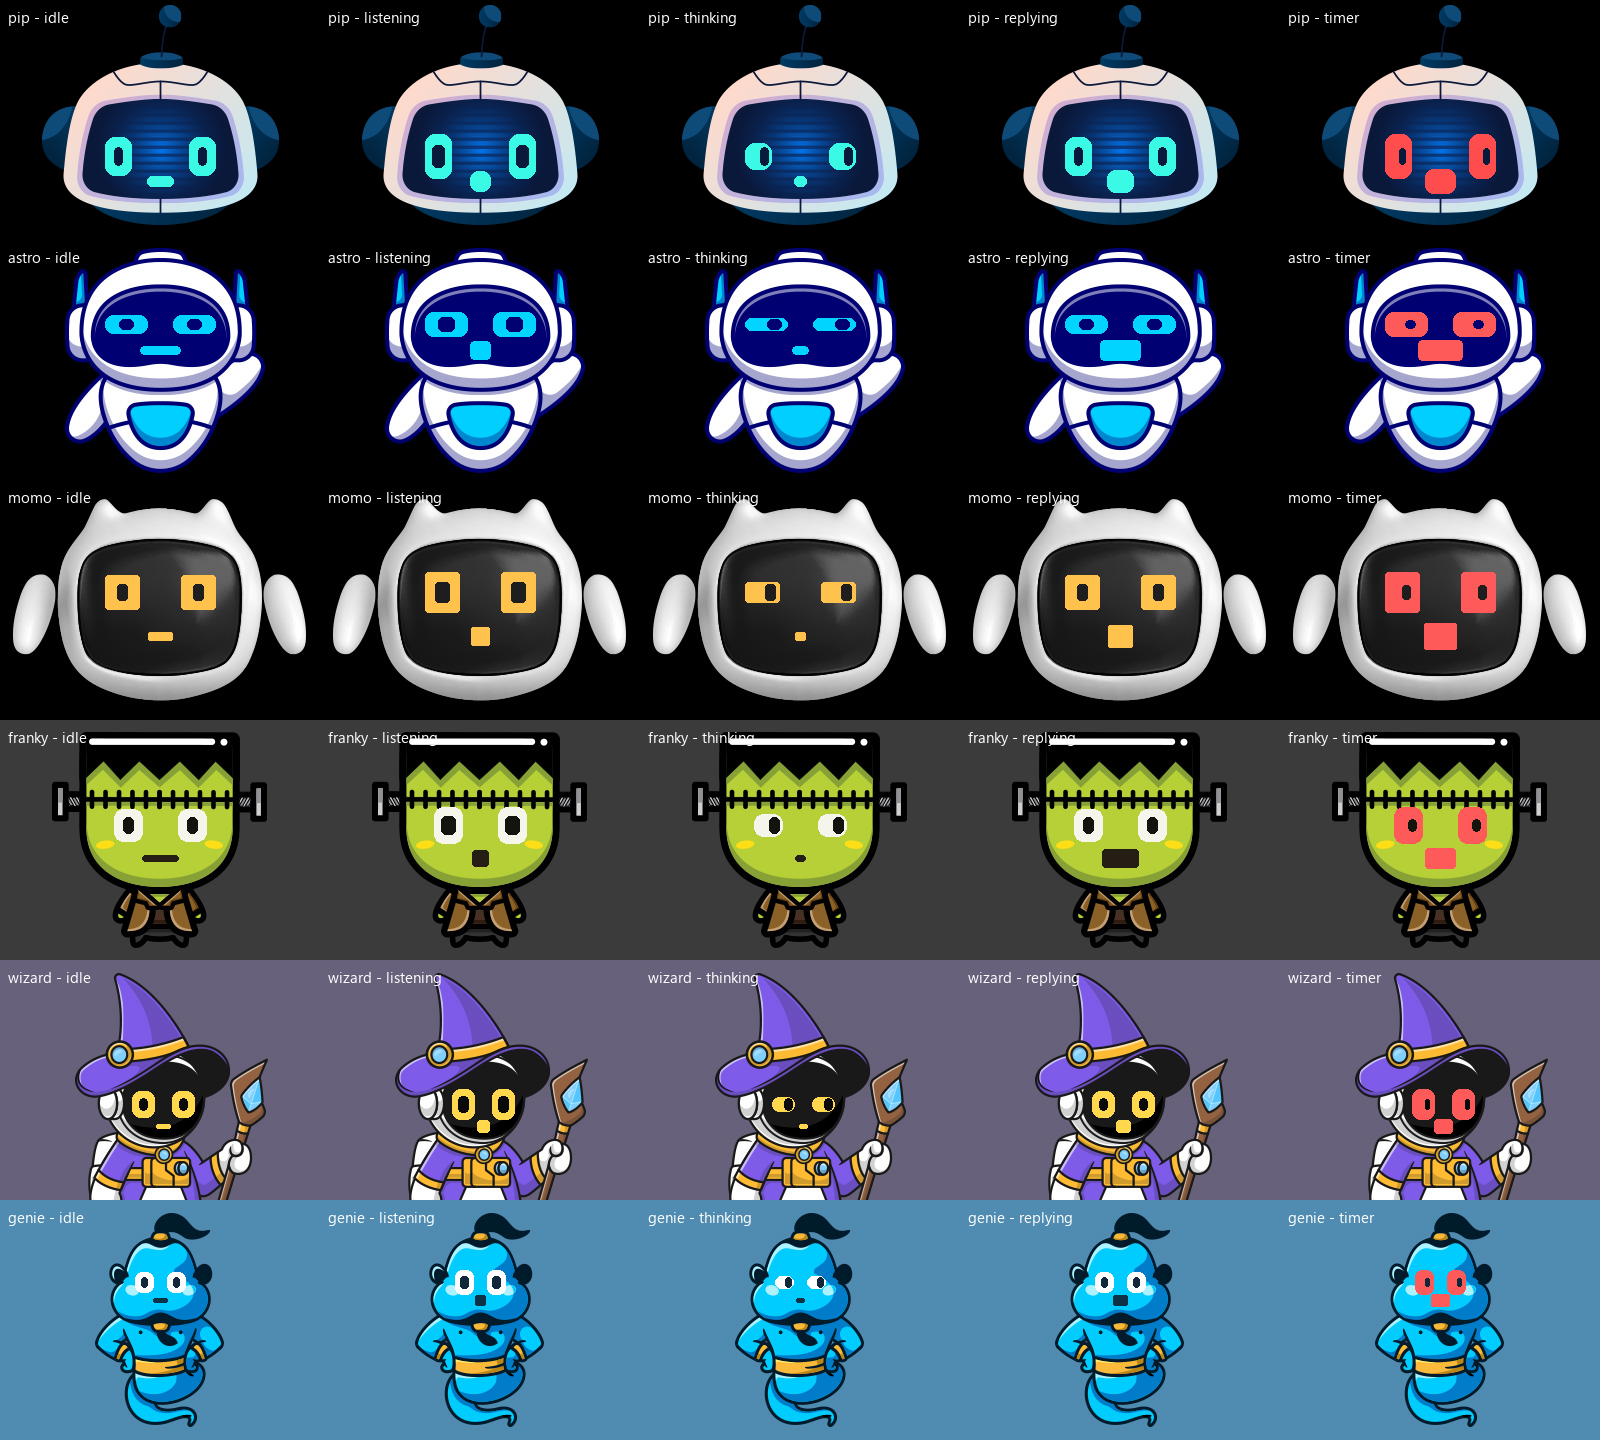
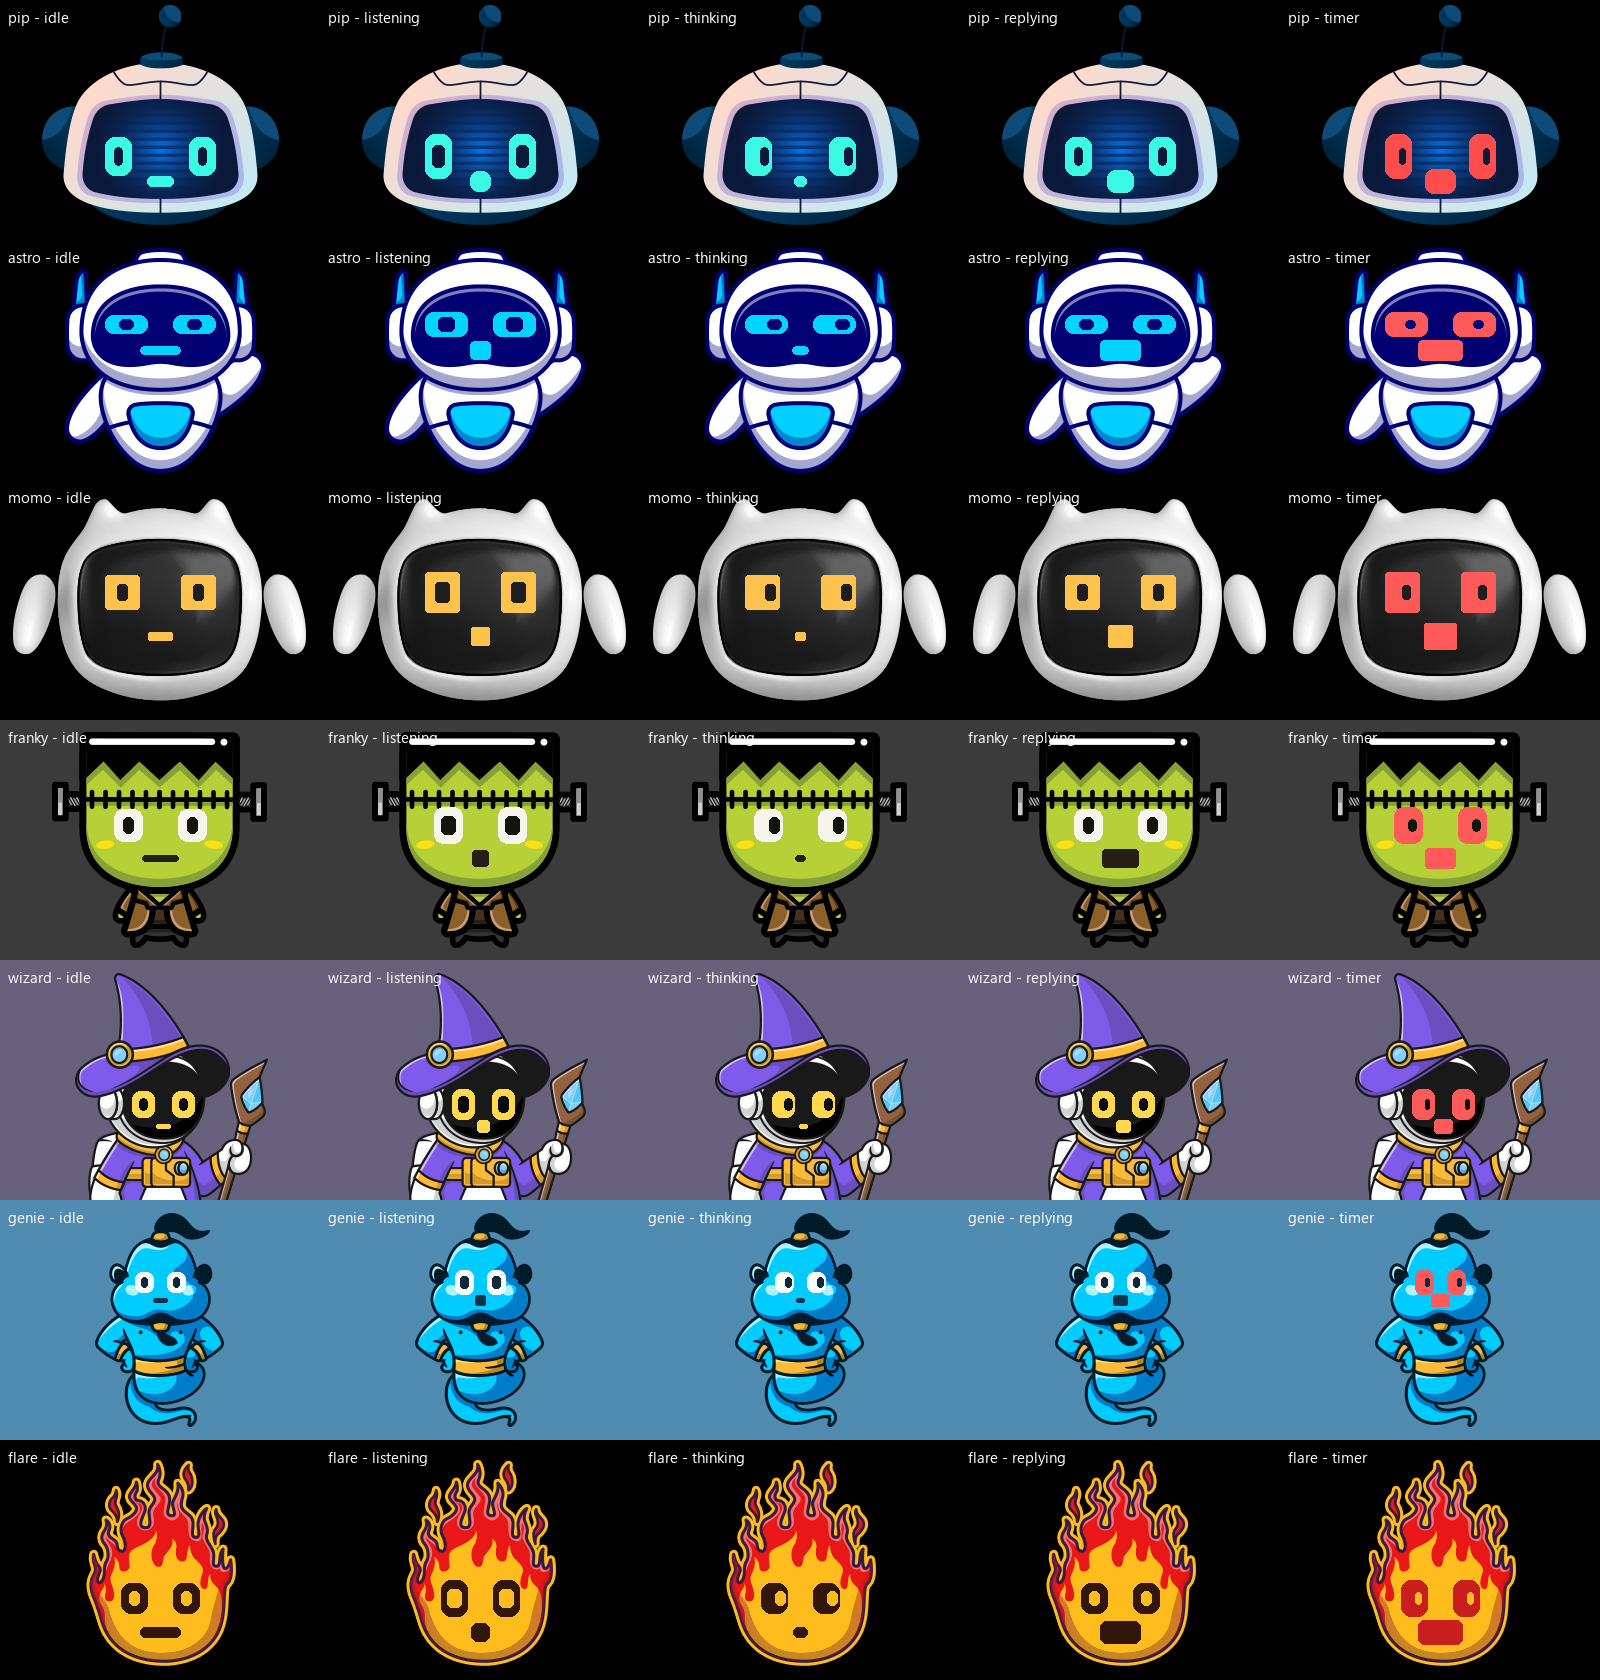
Attach the media player again, and add Flare
Two separate things.

Flare: a fireball, and the first inverted face in the set. Dark features cut into
a bright body with the pupils lit in the body's own yellow, which also proves the
engine does not assume the face is the bright part.

The media player is back on `voice_assistant:`, deliberately, to test a
hypothesis. Removing it fixed reboots on long replies, but it also cost two
things that turned out to be linked to the same flag: `get_feature_flags()` only
advertises ANNOUNCE when a media player is attached, and Home Assistant only
fetches a satellite's configuration - the wake word list - inside
`if feature_flags & ANNOUNCE`. So no media player meant no wake word picker and a
satellite stuck in `responding`.

This keeps the flag and tries to keep the fix: when `TTS output` is `External
player`, `on_tts_end` stops the local playback ESPHome has just begun, so the box
should not sit through a long download. Whether that is fast enough to prevent
the reboots is exactly what needs testing - the connection between the local
decode and the resets was always a hypothesis, and the old firmware differed in
other ways too.

diff --git a/base/faces/README.md b/base/faces/README.md
@@ -5,9 +5,9 @@ The assistant on screen is split in two: `base/screens/face.yaml` is the
 file in here is a **character**: one image plus the numbers that say where its
 features go. Swapping the assistant is one line in `files:`.
 
-![The six characters across five phases](../assets/characters.png)
+![The seven characters across five phases](../assets/characters.png)
 
-Animated, one clip each: [pip](../assets/demo/demo-pip.gif) · [astro](../assets/demo/demo-astro.gif) · [momo](../assets/demo/demo-momo.gif) · [franky](../assets/demo/demo-franky.gif) · [wizard](../assets/demo/demo-wizard.gif) · [genie](../assets/demo/demo-genie.gif)
+Animated, one clip each: [pip](../assets/demo/demo-pip.gif) · [astro](../assets/demo/demo-astro.gif) · [momo](../assets/demo/demo-momo.gif) · [franky](../assets/demo/demo-franky.gif) · [wizard](../assets/demo/demo-wizard.gif) · [genie](../assets/demo/demo-genie.gif) · [flare](../assets/demo/demo-flare.gif)
 
 | Character | Look | Face style |
 |---|---|---|
@@ -17,6 +17,7 @@ Animated, one clip each: [pip](../assets/demo/demo-pip.gif) · [astro](../assets
 | **Franky** | Green monster, bolts, stitches | White cartoon eyes with black pupils - the only face here that is skin rather than a display, so it gets a separate mouth colour. |
 | **Wizard** | Void under a purple hat | Glowing gold eyes and almost no mouth. The void sits below the hat brim, not at the frame's centre. |
 | **Genie** | Small head, big moustache | The most compact face of the set; the mouth is a hint under the moustache. |
+| **Flare** | Burning blob, flames on top | Dark features cut into a bright body, with the pupil lit in the body's own yellow. The only inverted face here, and a useful demonstration that `face_color` need not be the bright one. |
 
 `face_center_x` shifts the whole face sideways when the artwork is not centred.
 Most of these do not need it - five of the six sit on the frame's axis and only

diff --git a/README.md b/README.md
@@ -185,6 +185,7 @@ expression belong to the character, and the artwork decides all of it.
 | ![Franky](base/assets/demo/demo-franky.gif) | **Franky**<br>`base/faces/franky.yaml` | Assembled from spare parts on somebody's day off. The only one here whose face is skin rather than a screen, so it gets white cartoon eyes and a mouth of its own colour. |
 | ![Wizard](base/assets/demo/demo-wizard.gif) | **Wizard**<br>`base/faces/wizard.yaml` | There is nothing under the hat but two burning eyes, and it would rather you did not ask. Almost no mouth, by design. |
 | ![Genie](base/assets/demo/demo-genie.gif) | **Genie**<br>`base/faces/genie.yaml` | Small, moustachioed and faintly smug: grants timers instead of wishes and considers that an upgrade. The most compact face of the set. |
+| ![Flare](base/assets/demo/demo-flare.gif) | **Flare**<br>`base/faces/flare.yaml` | A fireball with a face cut into it, jack-o-lantern style. The inverse of everyone else: dark features on a bright body, pupils lit in the flame's own colour so the eyes read as embers. |
 
 Every clip above is idle → thinking → replying, generated by replaying the
 animation engine at its real 120 ms tick against that character's own numbers -